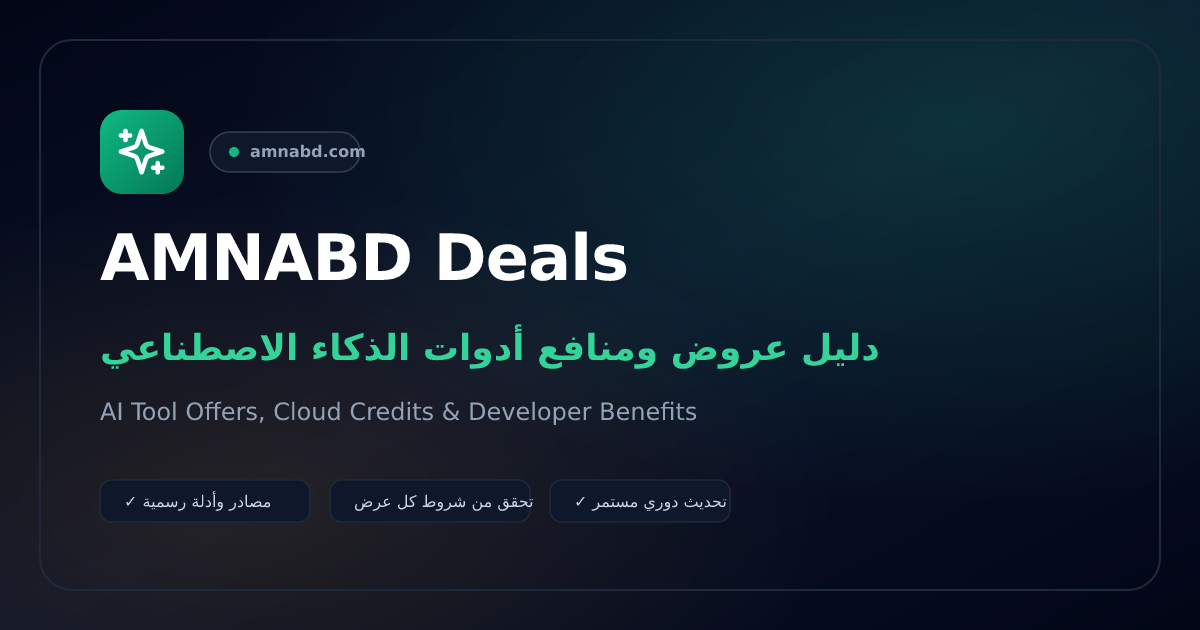
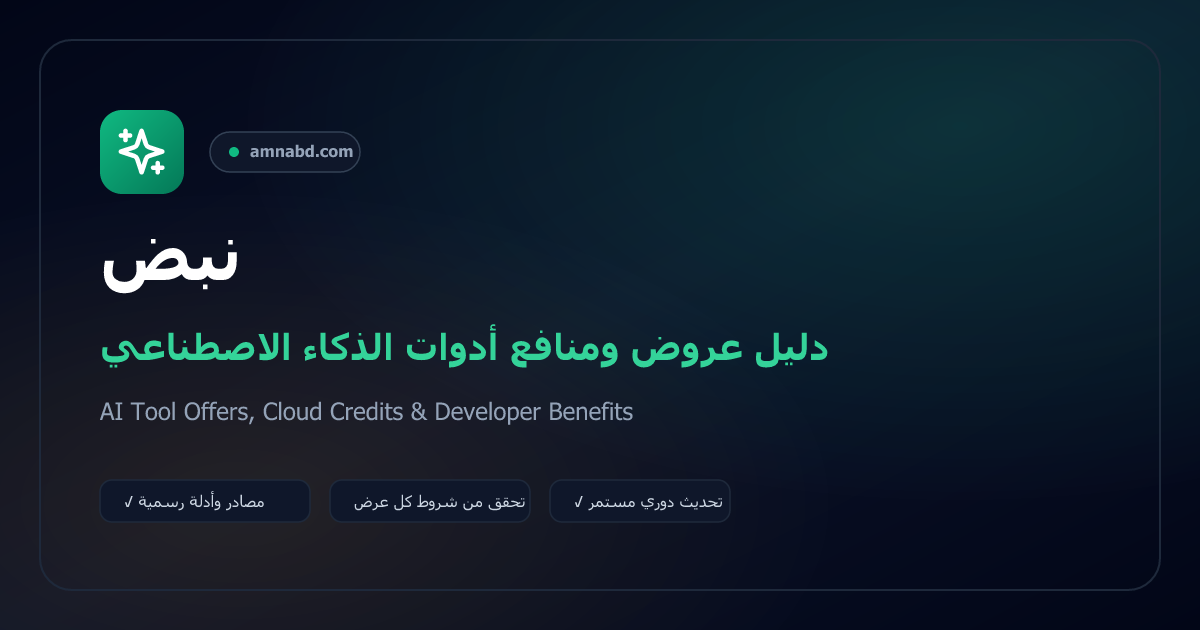
feat: act on the three architecture decisions
Reports (decision 1): harden deal_reports against flooding. The migration adds
the global-window index, a SECURITY DEFINER throttle that counts per slug and
globally, revokes RPC access so only the trigger can call it, and rejects notes
over 280 characters. The client now bounds the request with
AbortSignal.timeout(8000) instead of waiting on a socket that never answers.
The migration is committed but NOT applied: it changes production policies and
has to be run by an operator.

Two corrections against the proposed SQL: the note limit stays 280 to match the
existing CHECK constraint and the client's own slice, and the per-slug index is
not recreated because idx_deal_reports_slug_created already exists.

Language indexing (decision 2): unchanged — Arabic remains the indexed version,
canonical stays query-free, no hreflang. The decision is recorded in §7.

Brand (decision 3): «نبض» is the Arabic name everywhere — title, og:site_name,
JSON-LD name, PWA name and short name, the OG image, DEALS.md — and
"AMNABD Deals" is kept as the English name (alternateName, and titles on English
pages). metadata.ts now picks the brand per language instead of appending an
English suffix to Arabic titles.

The OG image is regenerated by a new `npm run build:og` script. Its font stack
is pinned to Tahoma/Segoe UI because resvg produced tofu boxes for the Arabic
pills with system-ui on this host, and the Arabic title dropped letter-spacing,
[…]

diff --git a/index.html b/index.html
@@ -7,7 +7,7 @@
     <link rel="apple-touch-icon" href="/favicon.svg" data-pwa-icon />
     <meta name="mobile-web-app-capable" content="yes" />
     <meta name="apple-mobile-web-app-capable" content="yes" />
-    <meta name="apple-mobile-web-app-title" content="AMNABD" />
+    <meta name="apple-mobile-web-app-title" content="نبض" />
     <meta name="viewport" content="width=device-width, initial-scale=1.0, viewport-fit=cover" />
     <meta name="theme-color" content="#020617" />
     <meta name="color-scheme" content="dark" />
@@ -20,7 +20,7 @@
       href="https://fonts.googleapis.com/css2?family=Tajawal:wght@400;500;700;800&family=Inter:wght@400;500;600;700&display=swap"
     />
 
-    <title>AMNABD Deals — دليل عروض الذكاء الاصطناعي والسحابة</title>
+    <title>نبض — دليل عروض الذكاء الاصطناعي والسحابة</title>
     <meta
       name="description"
       content="دليل ثنائي اللغة يربطك مباشرة بروابط المصادر لعروض ومنافع أدوات الذكاء الاصطناعي والحوسبة السحابية مع عرض الشروط ومصادرها وما لم يثبت بعد."
@@ -31,8 +31,8 @@
     <meta property="og:type" content="website" />
     <meta property="og:locale" content="ar_AR" />
     <meta property="og:locale:alternate" content="en_US" />
-    <meta property="og:site_name" content="AMNABD Deals" />
-    <meta property="og:title" content="AMNABD Deals — دليل عروض الذكاء الاصطناعي والسحابة" />
+    <meta property="og:site_name" content="نبض" />
+    <meta property="og:title" content="نبض — دليل عروض الذكاء الاصطناعي والسحابة" />
     <meta
       property="og:description"
       content="دليل ثنائي اللغة يربطك مباشرة بروابط المصادر لعروض ومنافع أدوات الذكاء الاصطناعي مع عرض الشروط ومصادرها وما لم يثبت بعد."
@@ -42,16 +42,16 @@
     <meta property="og:image:type" content="image/png" />
     <meta property="og:image:width" content="1200" />
     <meta property="og:image:height" content="630" />
-    <meta property="og:image:alt" content="AMNABD Deals — عروض ومنافع أدوات الذكاء الاصطناعي" />
+    <meta property="og:image:alt" content="نبض — عروض ومنافع أدوات الذكاء الاصطناعي" />
 
     <meta name="twitter:card" content="summary_large_image" />
-    <meta name="twitter:title" content="AMNABD Deals — دليل عروض الذكاء الاصطناعي والسحابة" />
+    <meta name="twitter:title" content="نبض — دليل عروض الذكاء الاصطناعي والسحابة" />
     <meta
       name="twitter:description"
       content="دليل ثنائي اللغة يربطك مباشرة بروابط المصادر لعروض ومنافع أدوات الذكاء الاصطناعي."
     />
     <meta name="twitter:image" content="https://amnabd.com/og-image.png" />
-    <meta name="twitter:image:alt" content="AMNABD Deals — عروض ومنافع أدوات الذكاء الاصطناعي" />
+    <meta name="twitter:image:alt" content="نبض — عروض ومنافع أدوات الذكاء الاصطناعي" />
 
     <script type="application/ld+json">
 {
@@ -59,8 +59,8 @@
   "@graph": [
     {
       "@type": "WebSite",
-      "name": "AMNABD Deals",
-      "alternateName": "عروض AMNABD",
+      "name": "نبض",
+      "alternateName": "AMNABD Deals",
       "url": "https://amnabd.com/",
       "inLanguage": [
         "ar",

diff --git a/src/lib/metadata.ts b/src/lib/metadata.ts
@@ -21,7 +21,11 @@ export interface RouteMetadata {
   jsonLd: Record<string, unknown>;
 }
 
-const SUFFIX = 'AMNABD Deals';
+// One platform, two official names: «نبض» in Arabic surfaces and "AMNABD Deals"
+// in English ones. Titles carry the name of the language the page is rendered
+// in, so an Arabic page never ends with an English suffix.
+const BRAND: Record<Lang, string> = { ar: 'نبض', en: 'AMNABD Deals' };
+const brandFor = (lang: Lang): string => BRAND[lang] ?? BRAND.ar;
 
 function siteBase(baseUrl: string): string {
   return baseUrl.replace(/\/+$/, '');
@@ -33,7 +37,7 @@ interface RouteCopy {
 }
 
 const HOME_COPY: RouteCopy = {
-  title: { ar: 'AMNABD Deals — دليل عروض الذكاء الاصطناعي والسحابة', en: 'AMNABD Deals — AI & Cloud Deals Directory' },
+  title: { ar: 'نبض — دليل عروض الذكاء الاصطناعي والسحابة', en: 'AMNABD Deals — AI & Cloud Deals Directory' },
   description: {
     ar: 'دليل ثنائي اللغة يربطك مباشرة بالمصادر الرسمية لعروض أدوات الذكاء الاصطناعي والحوسبة السحابية.',
     en: 'A bilingual directory linking you to the official sources of AI-tool and cloud-computing offers.',
@@ -109,11 +113,11 @@ export function routeMetadata(
     const canonicalUrl = dealMissing ? `${base}/404` : `${base}${routePath(route)}`;
     const copy = dealMissing ? NOT_FOUND_COPY : null;
     return {
-      title: copy ? `${copy.title[lang]} — ${SUFFIX}` : SUFFIX,
+      title: copy ? `${copy.title[lang]} — ${brandFor(lang)}` : brandFor(lang),
       description: copy ? copy.description[lang] : lang === 'ar' ? 'جارٍ تحميل هذا العرض.' : 'Loading this deal.',
       canonicalUrl,
       ogImageUrl,
-      jsonLd: { '@context': 'https://schema.org', '@type': 'WebSite', name: SUFFIX, url: canonicalUrl },
+      jsonLd: { '@context': 'https://schema.org', '@type': 'WebSite', name: brandFor(lang), url: canonicalUrl },
     };
   }
 
@@ -123,15 +127,15 @@ export function routeMetadata(
   const path = isNotFound ? '/404' : routePath(route);
   // The home title already names the site; suffixing it again would read
   // "AMNABD Deals — … — AMNABD Deals".
-  const title = copy.title[lang].includes(SUFFIX)
+  const title = copy.title[lang].includes(brandFor(lang))
     ? copy.title[lang]
-    : `${copy.title[lang]} — ${SUFFIX}`;
+    : `${copy.title[lang]} — ${brandFor(lang)}`;
 
   if (route.name === 'collection' && route.collectionKey) {
     const agg = getAggregationConfig(route.collectionKey);
     if (agg) {
       return {
-        title: `${lang === 'ar' ? agg.titleAr : agg.titleEn} — ${SUFFIX}`,
+        title: `${lang === 'ar' ? agg.titleAr : agg.titleEn} — ${brandFor(lang)}`,
         description: lang === 'ar' ? agg.metaDescriptionAr : agg.metaDescriptionEn,
         canonicalUrl: `${base}${agg.path}`,
         ogImageUrl,

diff --git a/src/lib/dealReports.ts b/src/lib/dealReports.ts
@@ -110,8 +110,16 @@ export async function submitDealReport(
         ? {}
         : { Authorization: `Bearer ${supabaseKey}` };
 
+      // A stalled connection must not leave the reader on a spinner: nothing
+      // else bounds this request, and PostgREST can hold the socket open.
+      const timeoutSignal =
+        typeof AbortSignal !== 'undefined' && typeof AbortSignal.timeout === 'function'
+          ? AbortSignal.timeout(8000)
+          : undefined;
+
       const response = await fetch(endpoint, {
         method: 'POST',
+        signal: timeoutSignal,
         headers: {
           'Content-Type': 'application/json',
           apikey: supabaseKey,

diff --git a/docs/audits/2026-10-architecture-audit.md b/docs/audits/2026-10-architecture-audit.md
@@ -290,6 +290,16 @@ npx --yes gitleaks detect --source . --verbose
 2. **الفهرسة الإنجليزية (`hreflang`):** هل الهدف SEO باللغة العربية فقط (مع بقاء الإنجليزية خيار واجهة للمستخدم)، أم تريد توليد مسارات `/en/deal/*` مستقلة لمحركات البحث؟
 3. **الهوية البصرية:** ما الاسم الرسمي المعتمد لتوحيده في الشعار وJSON-LD وملفات التوثيق («نبض» أم «AMNABD Deals»)؟
 
+### القرارات المحسومة (26 أكتوبر 2026)
+
+| # | القرار | ما نُفِّذ |
+| --- | --- | --- |
+| 1 | **تطبيق جدول البلاغات مع Trigger الآن** | `supabase/migrations/20261026120000_deal_reports_hardening.sql` (فهرس النافذة الزمنية، دالة الحدّ بـ`SECURITY DEFINER`، سحب صلاحية RPC، Trigger قبل الإدراج) + `AbortSignal.timeout(8000)` في عميل الإرسال. **الهجرة لم تُطبَّق على قاعدة الإنتاج** — تنفيذها إجراء مشغّل. |
+| 2 | **العربية وحدها** | يبقى `docs/language-indexing.md` كما هو؛ لا مسارات `/en/*` ولا `hreflang`. |
+| 3 | **الاسم الرسمي: نبض** | «نبض» في كل سطح عربي (العنوان، `og:site_name`، JSON-LD `name`، PWA، صورة OG، `DEALS.md`)، و«AMNABD Deals» بديلاً إنجليزياً (`alternateName`، وعناوين النسخة الإنجليزية). |
+
+**تصحيحان على مقتطفات التقرير نُفِّذا بدلاً منها:** حدّ الملاحظة بقي **280** حرفاً (لا 1000) مطابقةً لقيود الجدول القائمة وللعميل؛ والفهرس `(deal_slug, created_at desc)` لم يُضَف لأن `idx_deal_reports_slug_created` موجود من هجرة `20261020210000`.
+
 ---
 
 ## ملحق (أ) — تحقق الحالة على `6952185`

diff --git a/DEALS.md b/DEALS.md
@@ -1,4 +1,4 @@
-# AMNABD Deals
+# نبض
 
 > Arabic-first directory of verified free AI-tool deals for students and developers.
 > Every deal is verified against its official source, with terms, eligibility and evidence documented in Arabic and English.
